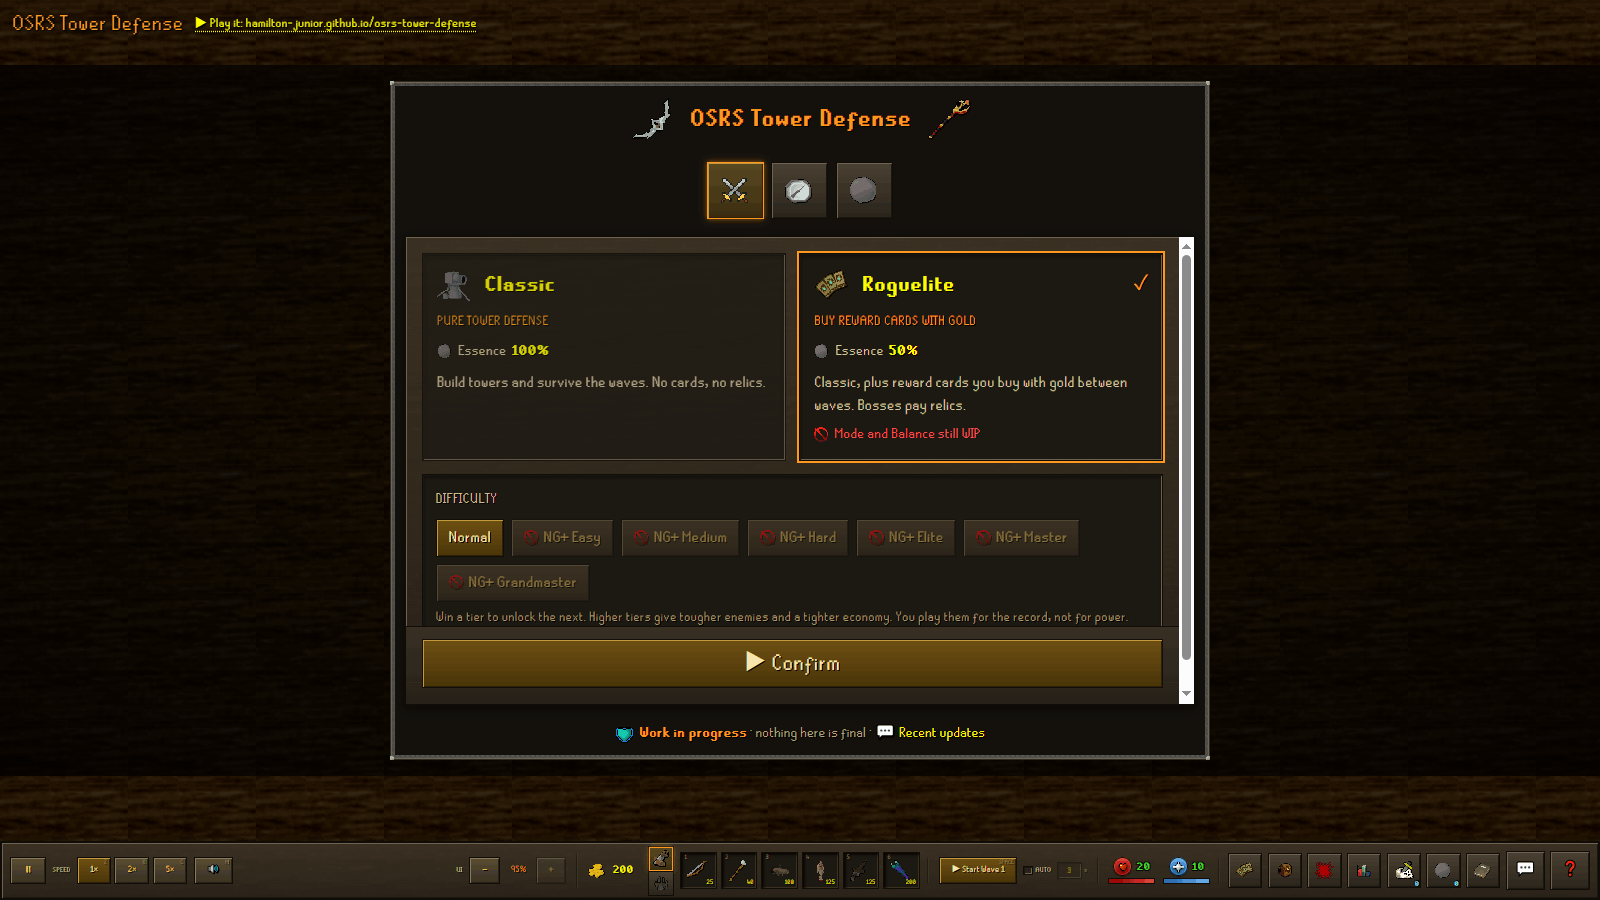
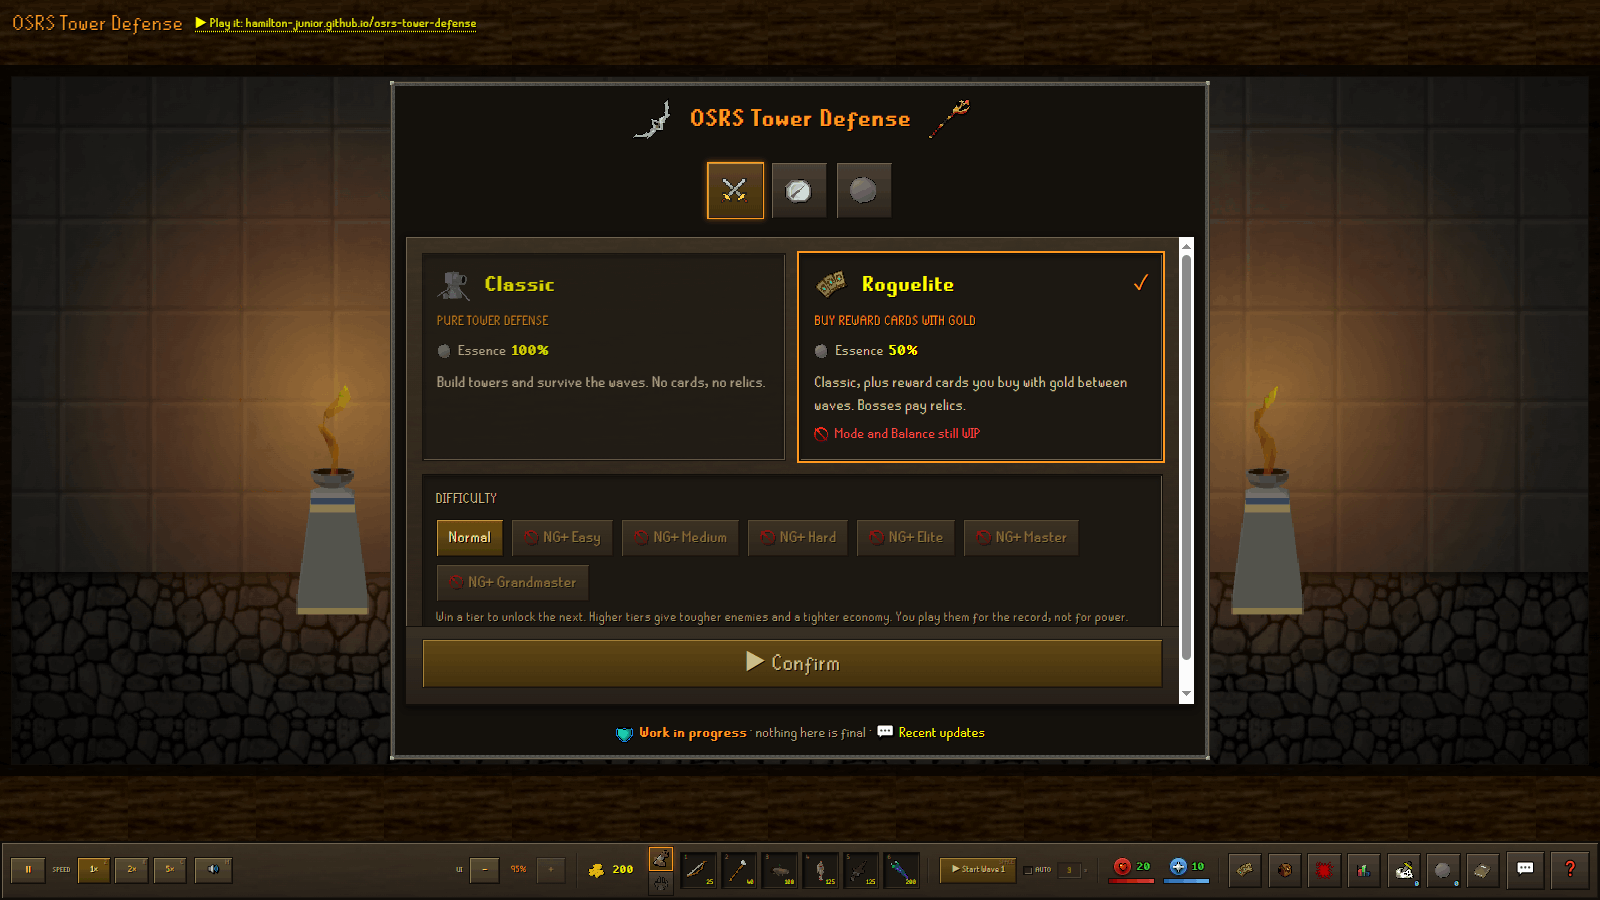
style(start): light the start screen with a torch-lit castle lobby
The stone panel now stands in a castle room baked from the cache: a brick
wall (texture 43) over a flagstone floor (texture 46), with two plinth
torches (LOC 38512, model 39794 playing its own sequence 5598) flanking the
panel. The flame plays the baked 18-frame sheet through a CSS steps()
animation and a warm halo pulses behind each torch. Both stop under
prefers-reduced-motion.

render-osrs-spotanims.mjs gains a third source, `{ model, seq }`, for a
scenery model animated by its LOC's sequence.

Changed region(s): [[0.0, 0.0622, 0.7188, 0.7778], [0.75, 0.0622, 1.0, 0.7778], [0.4688, 0.7156, 0.5312, 0.7467]]

diff --git a/app/globals.css b/app/globals.css
@@ -1492,3 +1492,94 @@ button.rs-log-entry:hover { border-color: var(--osrs-orange); }
   background-image: linear-gradient(180deg, rgba(56, 48, 37, 0.97), rgba(38, 32, 24, 1));
   border-top: 1px solid var(--rs-keyline);
 }
+
+/* The start screen's castle lobby (components/game/start-lobby.tsx), set into
+   the wood the way the board is: a brick wall over a flagstone floor, both
+   darkened, with two torches beside the stone panel as the only light. */
+.rs-lobby {
+  position: absolute;
+  inset: calc(12px * var(--ui-scale, 1));
+  z-index: 0;
+  overflow: hidden;
+  border: 1px solid var(--rs-keyline);
+  background: #0c0a07;
+  pointer-events: none;
+}
+.rs-lobby-wall,
+.rs-lobby-floor {
+  position: absolute;
+  left: 0;
+  right: 0;
+  background-repeat: repeat;
+  background-size: calc(192px * var(--ui-scale, 1));
+}
+.rs-lobby-wall {
+  top: 0;
+  bottom: 28%;
+  background-image: var(--lobby-wall);
+  filter: brightness(0.42) sepia(0.35);
+}
+.rs-lobby-floor {
+  bottom: 0;
+  height: 28%;
+  background-image: var(--lobby-floor);
+  background-size: calc(160px * var(--ui-scale, 1));
+  filter: brightness(0.32) sepia(0.3);
+  /* The skirting line: a hard shadow where the wall meets the floor. */
+  box-shadow: inset 0 calc(10px * var(--ui-scale, 1)) calc(14px * var(--ui-scale, 1)) calc(-4px * var(--ui-scale, 1)) rgba(0, 0, 0, 0.9);
+}
+/* The dark closes in from the edges, so the light reads as coming from the torches. */
+.rs-lobby::after {
+  content: '';
+  position: absolute;
+  inset: 0;
+  background: radial-gradient(ellipse at 50% 45%, transparent 35%, rgba(0, 0, 0, 0.72) 100%);
+}
+/* One torch cell. The sheet's torch is a narrow column in the middle of a square
+   frame, so the cell is placed by its centre: 2.5em outside the 36em panel. */
+.rs-lobby-torch {
+  position: absolute;
+  z-index: 1;
+  width: 14em;
+  height: 14em;
+  bottom: calc(28% - 3em);
+}
+.rs-lobby-torch-l { left: calc(50% - 27.5em); }
+.rs-lobby-torch-r { right: calc(50% - 27.5em); }
+.rs-lobby-flame {
+  position: absolute;
+  inset: 0;
+  background-image: var(--lobby-torch);
+  background-size: 1800% 100%;
+  background-repeat: no-repeat;
+  /* 18 frames at ~100ms (lobby_torch.json); jump-none lands on the first and last. */
+  animation: rs-lobby-flicker 1.8s steps(18, jump-none) infinite;
+  /* The model is shaded flat; this keeps the plinth inside the room's dark. */
+  filter: brightness(0.78);
+}
+.rs-lobby-halo {
+  position: absolute;
+  left: 50%;
+  top: 24%;
+  width: 26em;
+  height: 26em;
+  transform: translate(-50%, -50%);
+  border-radius: 50%;
+  background: radial-gradient(circle, rgba(255, 170, 70, 0.55), rgba(255, 120, 40, 0.2) 36%, transparent 68%);
+  mix-blend-mode: screen;
+  animation: rs-lobby-pulse 3.2s ease-in-out infinite alternate;
+}
+.rs-lobby-torch-r .rs-lobby-halo { animation-delay: -1.4s; }
+.rs-lobby-torch-r .rs-lobby-flame { animation-delay: -0.9s; }
+@keyframes rs-lobby-flicker {
+  from { background-position: 0% 0; }
+  to { background-position: 100% 0; }
+}
+@keyframes rs-lobby-pulse {
+  from { opacity: 0.72; transform: translate(-50%, -50%) scale(0.95); }
+  to { opacity: 1; transform: translate(-50%, -50%) scale(1.04); }
+}
+@media (prefers-reduced-motion: reduce) {
+  .rs-lobby-flame,
+  .rs-lobby-halo { animation: none; }
+}

diff --git a/components/game/start-screen.tsx b/components/game/start-screen.tsx
@@ -15,6 +15,7 @@ import { accountStats } from '@/lib/game/systems/account-stats';
 import type { LogTab } from './collection-log';
 import { DailyStrip } from './daily-ui';
 import { EssenceShop } from './essence-shop';
+import { StartLobby } from './start-lobby';
 import { fs, fmt, fmtTime, hideBrokenImg, GoStat } from './ui-kit';
 import { agoLabel, type DifficultyProgress, type Victories } from './save';
 
@@ -585,7 +586,8 @@ export function StartScreen({ mode, saved, victories, caTitle, difficulty, selec
   const [shopOpen, setShopOpen] = useState(false);
   return (
     <div className="rs-start-wood absolute inset-0 flex items-center justify-center z-40 p-4">
-      <div className="rs-start-room w-[36em] max-w-[95vw] max-h-full flex flex-col gap-[0.7em]">
+      <StartLobby />
+      <div className="rs-start-room relative z-[1] w-[36em] max-w-[95vw] max-h-full flex flex-col gap-[0.7em]">
         <Wordmark champion={victories.total > 0} wins={victories.total} caTitle={caTitle} />
 
         {saved && (
@@ -667,7 +669,7 @@ export function StartScreen({ mode, saved, victories, caTitle, difficulty, selec
       {/* The essence shop, over the room: the same panel the bottom bar opens
           during a run, so the two copies can never drift apart. */}
       {shopOpen && (
-        <div className="absolute inset-0 bg-black/70 flex items-center justify-center p-4" onClick={() => setShopOpen(false)}>
+        <div className="absolute inset-0 z-[2] bg-black/70 flex items-center justify-center p-4" onClick={() => setShopOpen(false)}>
           <div className="rs-panel w-[26em] max-w-[92vw] max-h-[88vh] overflow-y-auto p-[0.8em]" onClick={(e) => e.stopPropagation()}>
             <EssenceShop essence={essence} upgrades={upgrades} onBuy={onBuyUpgrade} onRefund={onRefundEssence} />
             <button

diff --git a/components/game/start-lobby.tsx b/components/game/start-lobby.tsx
@@ -1,0 +1,34 @@
+'use client';
+
+import React from 'react';
+import { ASSETS } from '@/lib/game/assets';
+
+/**
+ * The castle room the start screen stands in: a brick wall over a flagstone
+ * floor, lit by two torches that flank the stone panel. Pure scenery behind the
+ * panel, so it takes no props and catches no clicks.
+ *
+ * The torch plays its baked sheet with a CSS `steps()` animation; the sheet's
+ * 18 frames run at ~100ms each (lobby_torch.json), so one loop is 1.8s.
+ */
+export function StartLobby() {
+  const vars = {
+    '--lobby-wall': `url(${ASSETS.lobby.wall})`,
+    '--lobby-floor': `url(${ASSETS.lobby.floor})`,
+    '--lobby-torch': `url(${ASSETS.lobby.torch})`,
+  } as React.CSSProperties;
+  return (
+    <div className="rs-lobby" style={vars} aria-hidden>
+      <div className="rs-lobby-wall" />
+      <div className="rs-lobby-floor" />
+      <div className="rs-lobby-torch rs-lobby-torch-l">
+        <div className="rs-lobby-halo" />
+        <div className="rs-lobby-flame" />
+      </div>
+      <div className="rs-lobby-torch rs-lobby-torch-r">
+        <div className="rs-lobby-halo" />
+        <div className="rs-lobby-flame" />
+      </div>
+    </div>
+  );
+}

diff --git a/lib/game/assets.ts b/lib/game/assets.ts
@@ -298,6 +298,14 @@ DEATH_SOUNDS.tz_kek_half = DEATH_SOUNDS.tz_kih;
 
 export const ASSETS = {
   spells: SPELL_ICONS,
+  // The start screen's castle lobby: two raw cache textures
+  // (scripts/render-osrs-objects.mjs) and the torch LOC's flame as an 18-frame
+  // sheet (scripts/render-osrs-spotanims.mjs, `lobby_torch`).
+  lobby: {
+    wall: `${LOCAL}/lobby/lobby_wall.png`,
+    floor: `${LOCAL}/lobby/lobby_floor.png`,
+    torch: `${LOCAL}/spotanims/lobby_torch.png`,
+  },
   // Enemy & pet portraits — NPC models rendered from the game cache
   // (scripts/render-osrs-npcs.mjs, same NPC ids as the animated clips),
   // served locally from public/assets/models/.
